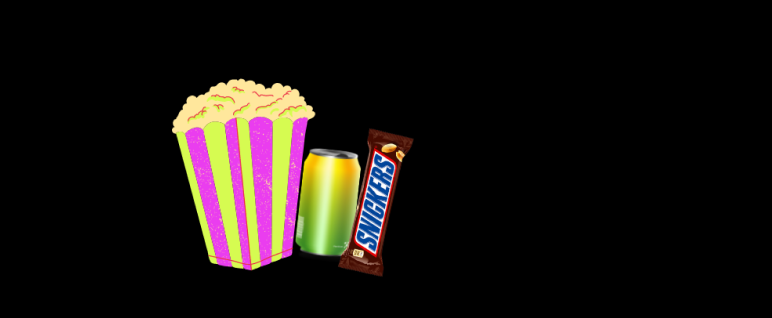
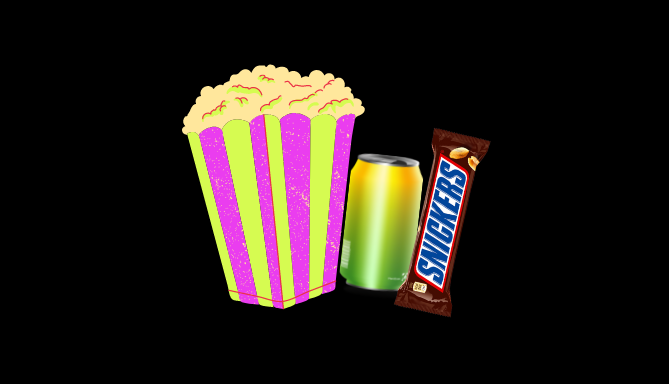
COMBOS

Changed region(s): [[0.2093, 0.1698, 0.7474, 0.8774]]

diff --git a/combo.html b/combo.html
@@ -12,44 +12,37 @@
 <title>COMBO</title>
 </head>
 
-<body class="bg minhacor ">
-    <nav class="navbar navbar-expand-lg bg-light">
-        <div class="container-fluid">
-          <a class="navbar-brand" href="#"><img src="imagens/logoverde.png" alt="Logo" width="200" height="80" class="d-inline-block align-text-top"></a>
-          <button class="navbar-toggler" type="button" data-bs-toggle="collapse" data-bs-target="#navbarNav" aria-controls="navbarNav" aria-expanded="false" aria-label="Toggle navigation">
-            <span class="navbar-toggler-icon"></span>
-          </button>
-          <div class="collapse navbar-collapse text-end" id="navbarNav">
-            <ul class="navbar-nav">
-              <li class="nav-item">
-                <a class="nav-link " aria-current="page" href="#">Filme</a>
+<body >
+   <nav>
+  <img src="imagens/logoverde.png" class="menu" alt="Receitas de Código"> 
+  <ul>
+      <li>
+          <a class="text-decoration-none" href="catalogo.html" style="color:rgb(255, 248, 248)">Filmes</a>
+      </li>
+      <li>
+          <a class="text-decoration-none" href="combo.html" style="color:rgb(255, 255, 255)">Combos</a>
+          </li>
+          <li>
+          <a class="text-decoration-none" href="pagePerfil.html" style="color:rgb(255, 255, 255)"> Perfil </a>
               </li>
-              <li class="nav-item">
-                <a class="nav-link active" href="#">Combos</a>
-              </li>
-              <li class="nav-item">
-                <a class="nav-link" href="#">Perfil</a>
-              </li>
-            </ul>
-          </div>
-        </div>
-      </nav>
-  <img src="imagens/Combos.png" class="img-fluid" alt="...">
+  </ul>
+</nav>
+ <div class="combinho">
+    <img src="imagens/Combos.png" class="img-fluid" alt="Receitas de Código">
+ </div>
+ 
 
   <div class="text" >
       <h1 class="card-title text-center" style="color:#6DA437">Combos</h1>
-      <h1 class="linha">
-          <img src="imagens/linha.png" class="card-img-top" alt="...">
-      </h1>
   </div>
 
   <div class="row mt-4">
     <div class="col">
       <div class="card">
-        <img src="imagens/COMBOP.png" class="card-img-top" style= alt="...">
+        <img src="imagens/COMBOP.png" class="card-img-top" alt="...">
         <div class="card-body">
-          <h5 class="card-title text-center">Combo Pequeno</h5>
-          <h5 class="text-center">R$12,00</h5>
+          <h5 class="card-title text-center" style="color:#EA3DEF">Combo Pequeno</h5>
+          <h5 class="text-center" style="color:#EA3DEF">R$12,00</h5>
 
 
 

diff --git a/estilo05.css b/estilo05.css
@@ -1,5 +1,13 @@
 body{
-    background-color: black
+   
+    background-color: rgb(0, 0, 0) !important;
+}
+nav{
+    background-color: black;
+    padding: 0 20px;
+    justify-content: space-between;
+    height: 65px;
+    filter: opacity(75%);
 }
 .logo{
     display: flex;
@@ -9,16 +17,6 @@ body{
     margin-top: 30px;
     margin-left: -820px
 }
-.combos 
-{
-    width:100px;
-    top:100px;
-    left: 350px;
-    height: 100px;
-    display: flex;
-    justify-content: center;
-    align-items: center;
-}
 h1{
     color: white;
     font-size: 30px;
@@ -26,41 +24,56 @@ h1{
 }
 a{
     color: #66DA43;
-    font-size: 30px;
-}
-.combo01{
-    border: #FFFF00;
-    position: absolute;
-    margin-top: 100px;
-    margin-left: 500px;
-}
-.text01{
-    color:#EA3DEF;
-    position: absolute;
     font-size: 20px;
     
 }
-.combo02{
-    top:70px;
-    border: #FFFF00;
-    position: absolute;
-    margin-top: 100px;
-    margin-left: 500px;
+.menu
+{
+    padding: 5px;
+    height: 50px;
+    margin-top: 3px;
 }
-.text02{
-    color: #EB3347;
-    position: absolute;
-    font-size: 20px;
+ul{
+    list-style: none;
+   
 }
-.combo03{
-    top:70px;
-    border: #FFFF00;
-    position: absolute;
-    margin-top: 100px;
-    margin-left: 500px;
+nav{
+    background-color: black;
+    padding: 0 20px;
+    justify-content: space-between;
+    height: 65px;
+    filter: opacity(75%);
 }
-.text03{
-    color:#66DA43;
-    position: absolute;
-    font-size: 20px;
+a{
+    color: white;
+    text-decoration: none;
+    
+}
+a:hover{
+    color:greenyellow;
+}
+nav, ul{
+display: flex;
+flex-direction: row;
+
+}
+li{
+    padding: 0 20px;
+    margin:auto;
+    
+}
+.logo{
+    padding: 5px;
+    height: 50px;
+    margin-top: 3px;
+}
+.letras{
+    font-size: 30px;
+    margin-top: -170px;
+    color: white;
+    margin-left: 40px;
+}
+.combinho{
+    width: 100%;
+    margin-top: -100px;
 }
